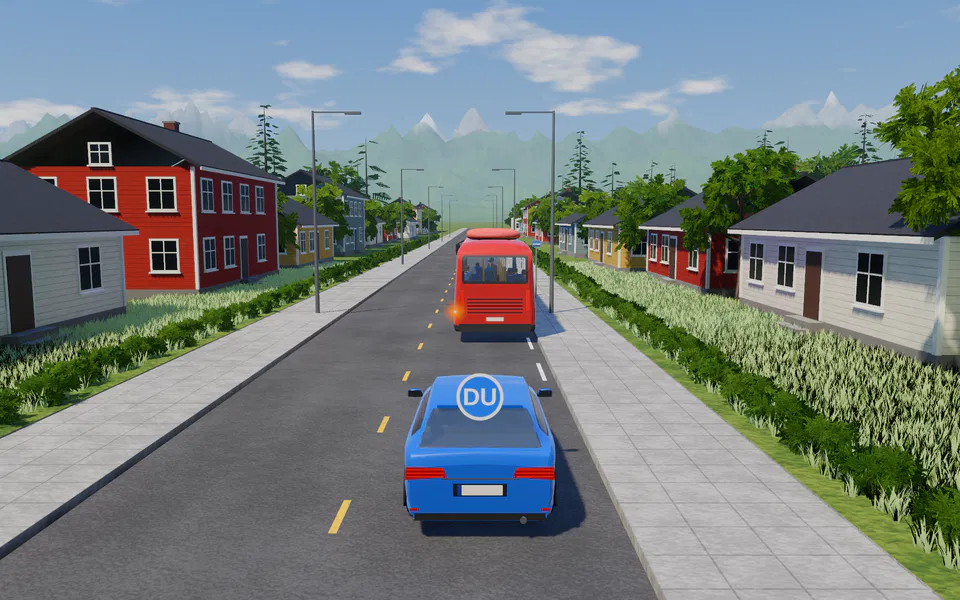
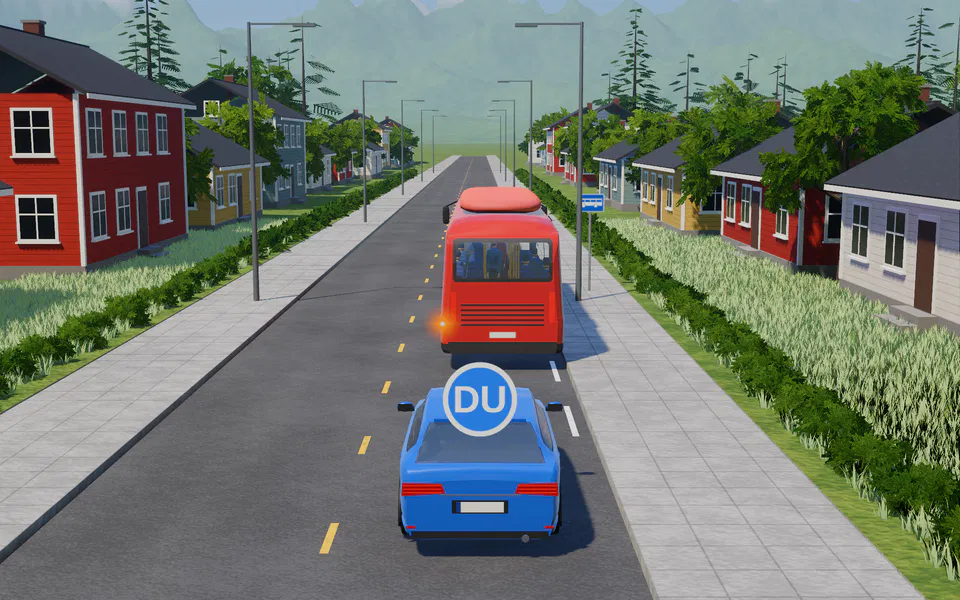
vik-32 и vik-33: знак 512 теперь виден; рендер щадит видеокарту
Автобус закрывал знак, а по N300 он всего 400×260 мм: знак показан вдвое
крупнее и снят камерой с более узким углом. npm run scenes теперь идёт
с пределом 5 кадров/с в один процесс и показывает среднюю мощность;
лимит 20 Вт относится к среднему. Появился выбор сцен: scene=vik-32,vik-33.

Claude-Session: https://claude.ai/code/session_015E2dEToWrQGfMVHPSFCyev

diff --git a/README.md b/README.md
@@ -81,7 +81,7 @@ npm run build:single
 
 ```bash
 godot --headless --path scenes3d --import
-npm run scenes         # рендер всех сцен, 4 процесса; npm run scenes -- 2, если мало памяти
+npm run scenes         # рендер всех сцен: 5 кадров/с, видеокарта в среднем около 12–18 Вт, лимит 20 Вт; выбор сцен: npm run scenes -- scene=vik-32,vik-33
 npm run scenes:check   # проверка без рендера
 ```
 
